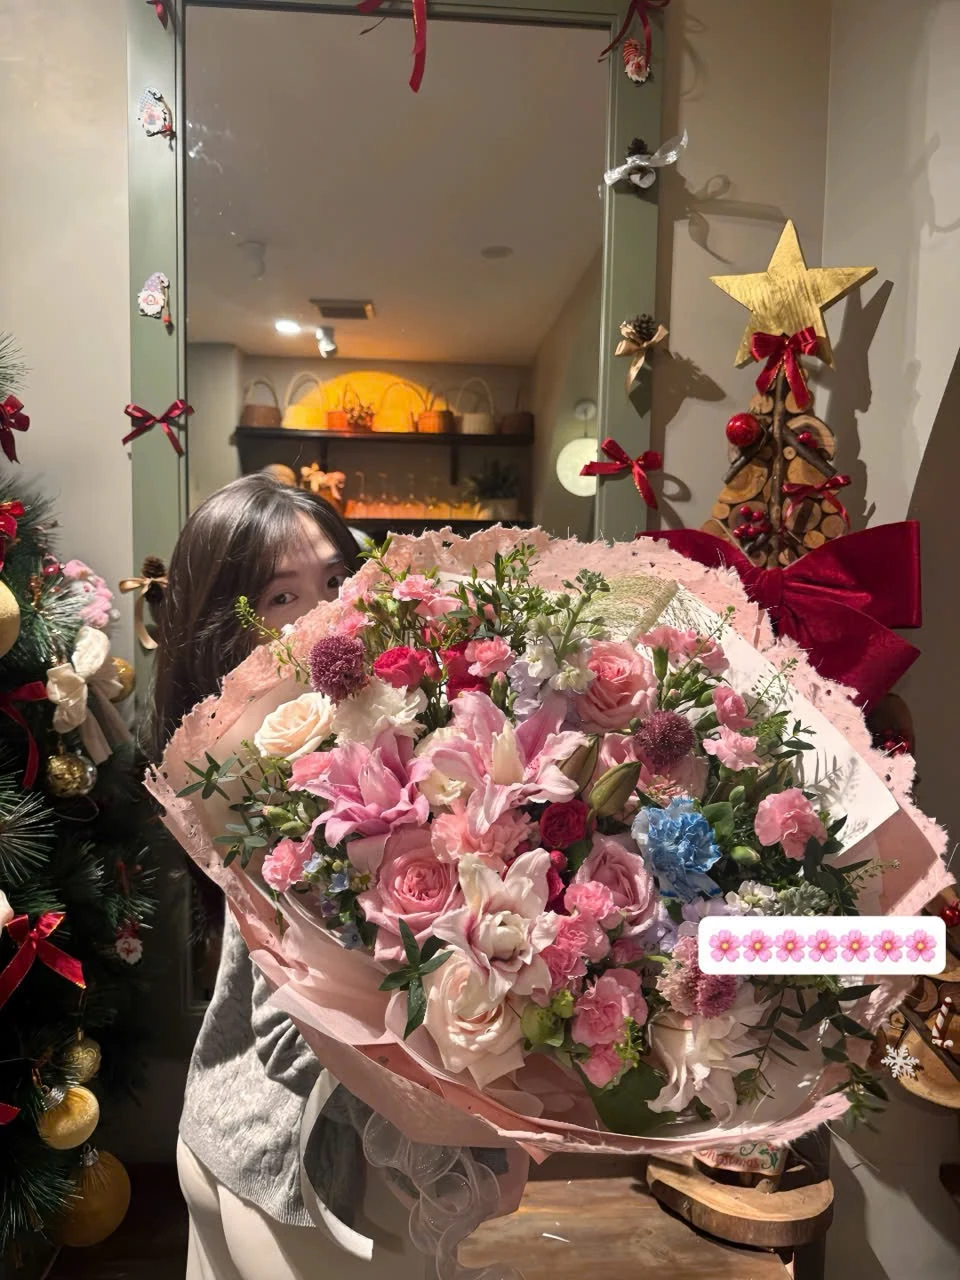
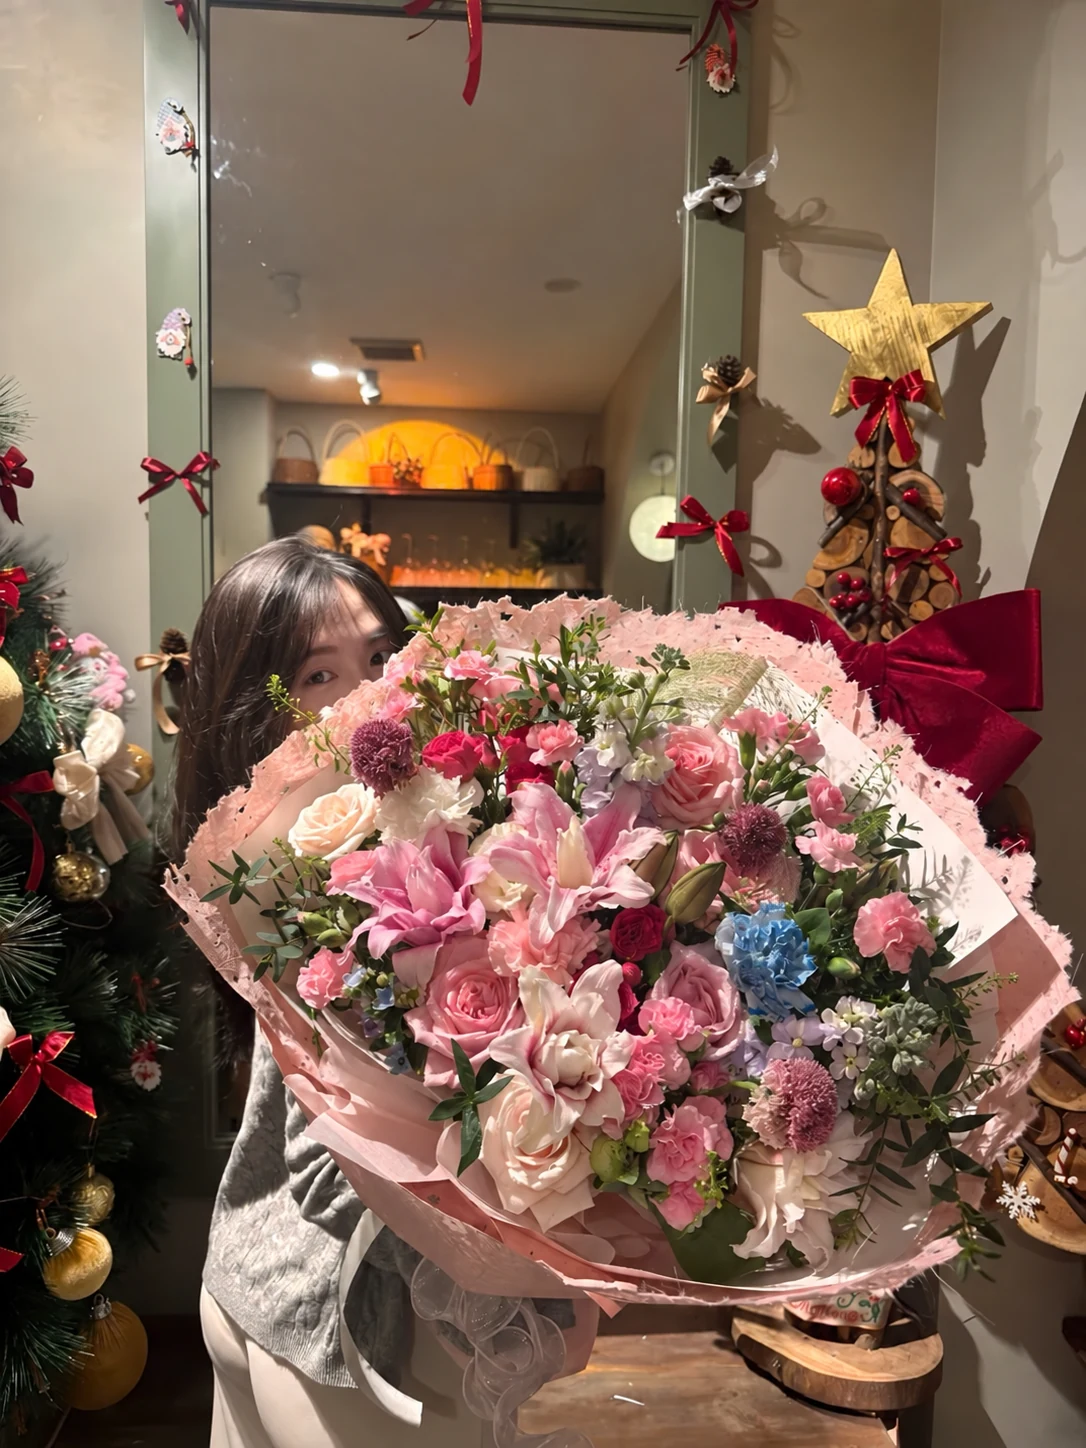
fix: 替換第二批已核准的去貼圖作品照

diff --git a/gallery/index.html b/gallery/index.html
@@ -339,7 +339,7 @@
         },
         {
           "@type": "ImageObject",
-          "contentUrl": "https://flower-shop-vn.com/images/gallery/2026/b013.webp",
+          "contentUrl": "https://flower-shop-vn.com/images/gallery/2026/b013.webp?v=4de3a482fc46",
           "caption": "B013 大型粉色綜合花束・蕾絲包裝"
         },
         {
@@ -349,7 +349,7 @@
         },
         {
           "@type": "ImageObject",
-          "contentUrl": "https://flower-shop-vn.com/images/gallery/2026/b014.webp",
+          "contentUrl": "https://flower-shop-vn.com/images/gallery/2026/b014.webp?v=b7b85f03d8d0",
           "caption": "B014 粉白綜合花束・綠色點綴"
         },
         {
@@ -359,12 +359,12 @@
         },
         {
           "@type": "ImageObject",
-          "contentUrl": "https://flower-shop-vn.com/images/gallery/2026/r030.webp",
+          "contentUrl": "https://flower-shop-vn.com/images/gallery/2026/r030.webp?v=2f9b5d24b4cb",
           "caption": "R030 紅玫瑰與尤加利・白色網紗"
         },
         {
           "@type": "ImageObject",
-          "contentUrl": "https://flower-shop-vn.com/images/gallery/2026/r031.webp",
+          "contentUrl": "https://flower-shop-vn.com/images/gallery/2026/r031.webp?v=060ba262c788",
           "caption": "R031 奶油色玫瑰・白色網紗"
         },
         {
@@ -657,13 +657,13 @@
             </div>
           </article>
           <article class="case-card portfolio-work" id="work-B013">
-            <a href="/images/gallery/2026/b013.webp" target="_blank" rel="noopener" aria-label="放大作品 B013：大型粉色綜合花束・蕾絲包裝"><img src="/images/gallery/2026/b013.webp" alt="大型粉色綜合花束・蕾絲包裝" width="960" height="1280" loading="lazy" decoding="async"></a>
+            <a href="/images/gallery/2026/b013.webp?v=4de3a482fc46" target="_blank" rel="noopener" aria-label="放大作品 B013：大型粉色綜合花束・蕾絲包裝"><img src="/images/gallery/2026/b013.webp?v=4de3a482fc46" alt="大型粉色綜合花束・蕾絲包裝" width="1086" height="1448" loading="lazy" decoding="async"></a>
             <div class="case-card-body"><span class="case-category">作品照片</span><p class="work-code">作品 B013</p><h3>大型粉色綜合花束・蕾絲包裝</h3><p>粉色與奶油色花材搭配藍色點綴、延伸綠葉與蕾絲感包裝，提供不同角度參考。</p><details class="work-angles"><summary>查看另一角度照片</summary><a href="/images/gallery/2026/b013-angle-2.webp" target="_blank" rel="noopener" aria-label="放大作品 B013 的另一角度"><img src="/images/gallery/2026/b013-angle-2.webp" alt="大型粉色綜合花束・蕾絲包裝・另一角度" width="960" height="1280" loading="lazy" decoding="async"><span>點照片可放大</span></a></details>
               <div class="button-row"><a class="button button-secondary" href="/contact/?work=B013#inquiry">用這款詢價</a><a class="work-permalink" href="#work-B013">作品連結</a></div>
             </div>
           </article>
           <article class="case-card portfolio-work" id="work-B014">
-            <a href="/images/gallery/2026/b014.webp" target="_blank" rel="noopener" aria-label="放大作品 B014：粉白綜合花束・綠色點綴"><img src="/images/gallery/2026/b014.webp" alt="粉白綜合花束・綠色點綴" width="960" height="1280" loading="lazy" decoding="async"></a>
+            <a href="/images/gallery/2026/b014.webp?v=b7b85f03d8d0" target="_blank" rel="noopener" aria-label="放大作品 B014：粉白綜合花束・綠色點綴"><img src="/images/gallery/2026/b014.webp?v=b7b85f03d8d0" alt="粉白綜合花束・綠色點綴" width="1086" height="1448" loading="lazy" decoding="async"></a>
             <div class="case-card-body"><span class="case-category">作品照片</span><p class="work-code">作品 B014</p><h3>粉白綜合花束・綠色點綴</h3><p>粉白色花材搭配綠色花朵、細長枝葉與自然色包裝，可參考層次豐富的花面。</p>
               <div class="button-row"><a class="button button-secondary" href="/contact/?work=B014#inquiry">用這款詢價</a><a class="work-permalink" href="#work-B014">作品連結</a></div>
             </div>
@@ -675,13 +675,13 @@
             </div>
           </article>
           <article class="case-card portfolio-work" id="work-R030">
-            <a href="/images/gallery/2026/r030.webp" target="_blank" rel="noopener" aria-label="放大作品 R030：紅玫瑰與尤加利・白色網紗"><img src="/images/gallery/2026/r030.webp" alt="紅玫瑰與尤加利・白色網紗" width="974" height="1280" loading="lazy" decoding="async"></a>
+            <a href="/images/gallery/2026/r030.webp?v=2f9b5d24b4cb" target="_blank" rel="noopener" aria-label="放大作品 R030：紅玫瑰與尤加利・白色網紗"><img src="/images/gallery/2026/r030.webp?v=2f9b5d24b4cb" alt="紅玫瑰與尤加利・白色網紗" width="1094" height="1438" loading="lazy" decoding="async"></a>
             <div class="case-card-body"><span class="case-category">作品照片</span><p class="work-code">作品 R030</p><h3>紅玫瑰與尤加利・白色網紗</h3><p>紅玫瑰搭配尤加利葉、白色包裝及網紗，以紅色緞帶呈現醒目對比。</p>
               <div class="button-row"><a class="button button-secondary" href="/contact/?work=R030#inquiry">用這款詢價</a><a class="work-permalink" href="#work-R030">作品連結</a></div>
             </div>
           </article>
           <article class="case-card portfolio-work" id="work-R031">
-            <a href="/images/gallery/2026/r031.webp" target="_blank" rel="noopener" aria-label="放大作品 R031：奶油色玫瑰・白色網紗"><img src="/images/gallery/2026/r031.webp" alt="奶油色玫瑰・白色網紗" width="953" height="1280" loading="lazy" decoding="async"></a>
+            <a href="/images/gallery/2026/r031.webp?v=060ba262c788" target="_blank" rel="noopener" aria-label="放大作品 R031：奶油色玫瑰・白色網紗"><img src="/images/gallery/2026/r031.webp?v=060ba262c788" alt="奶油色玫瑰・白色網紗" width="1082" height="1453" loading="lazy" decoding="async"></a>
             <div class="case-card-body"><span class="case-category">作品照片</span><p class="work-code">作品 R031</p><h3>奶油色玫瑰・白色網紗</h3><p>奶油色玫瑰搭配尤加利葉及小白花，使用白色包裝與網紗蝴蝶結。</p>
               <div class="button-row"><a class="button button-secondary" href="/contact/?work=R031#inquiry">用這款詢價</a><a class="work-permalink" href="#work-R031">作品連結</a></div>
             </div>
